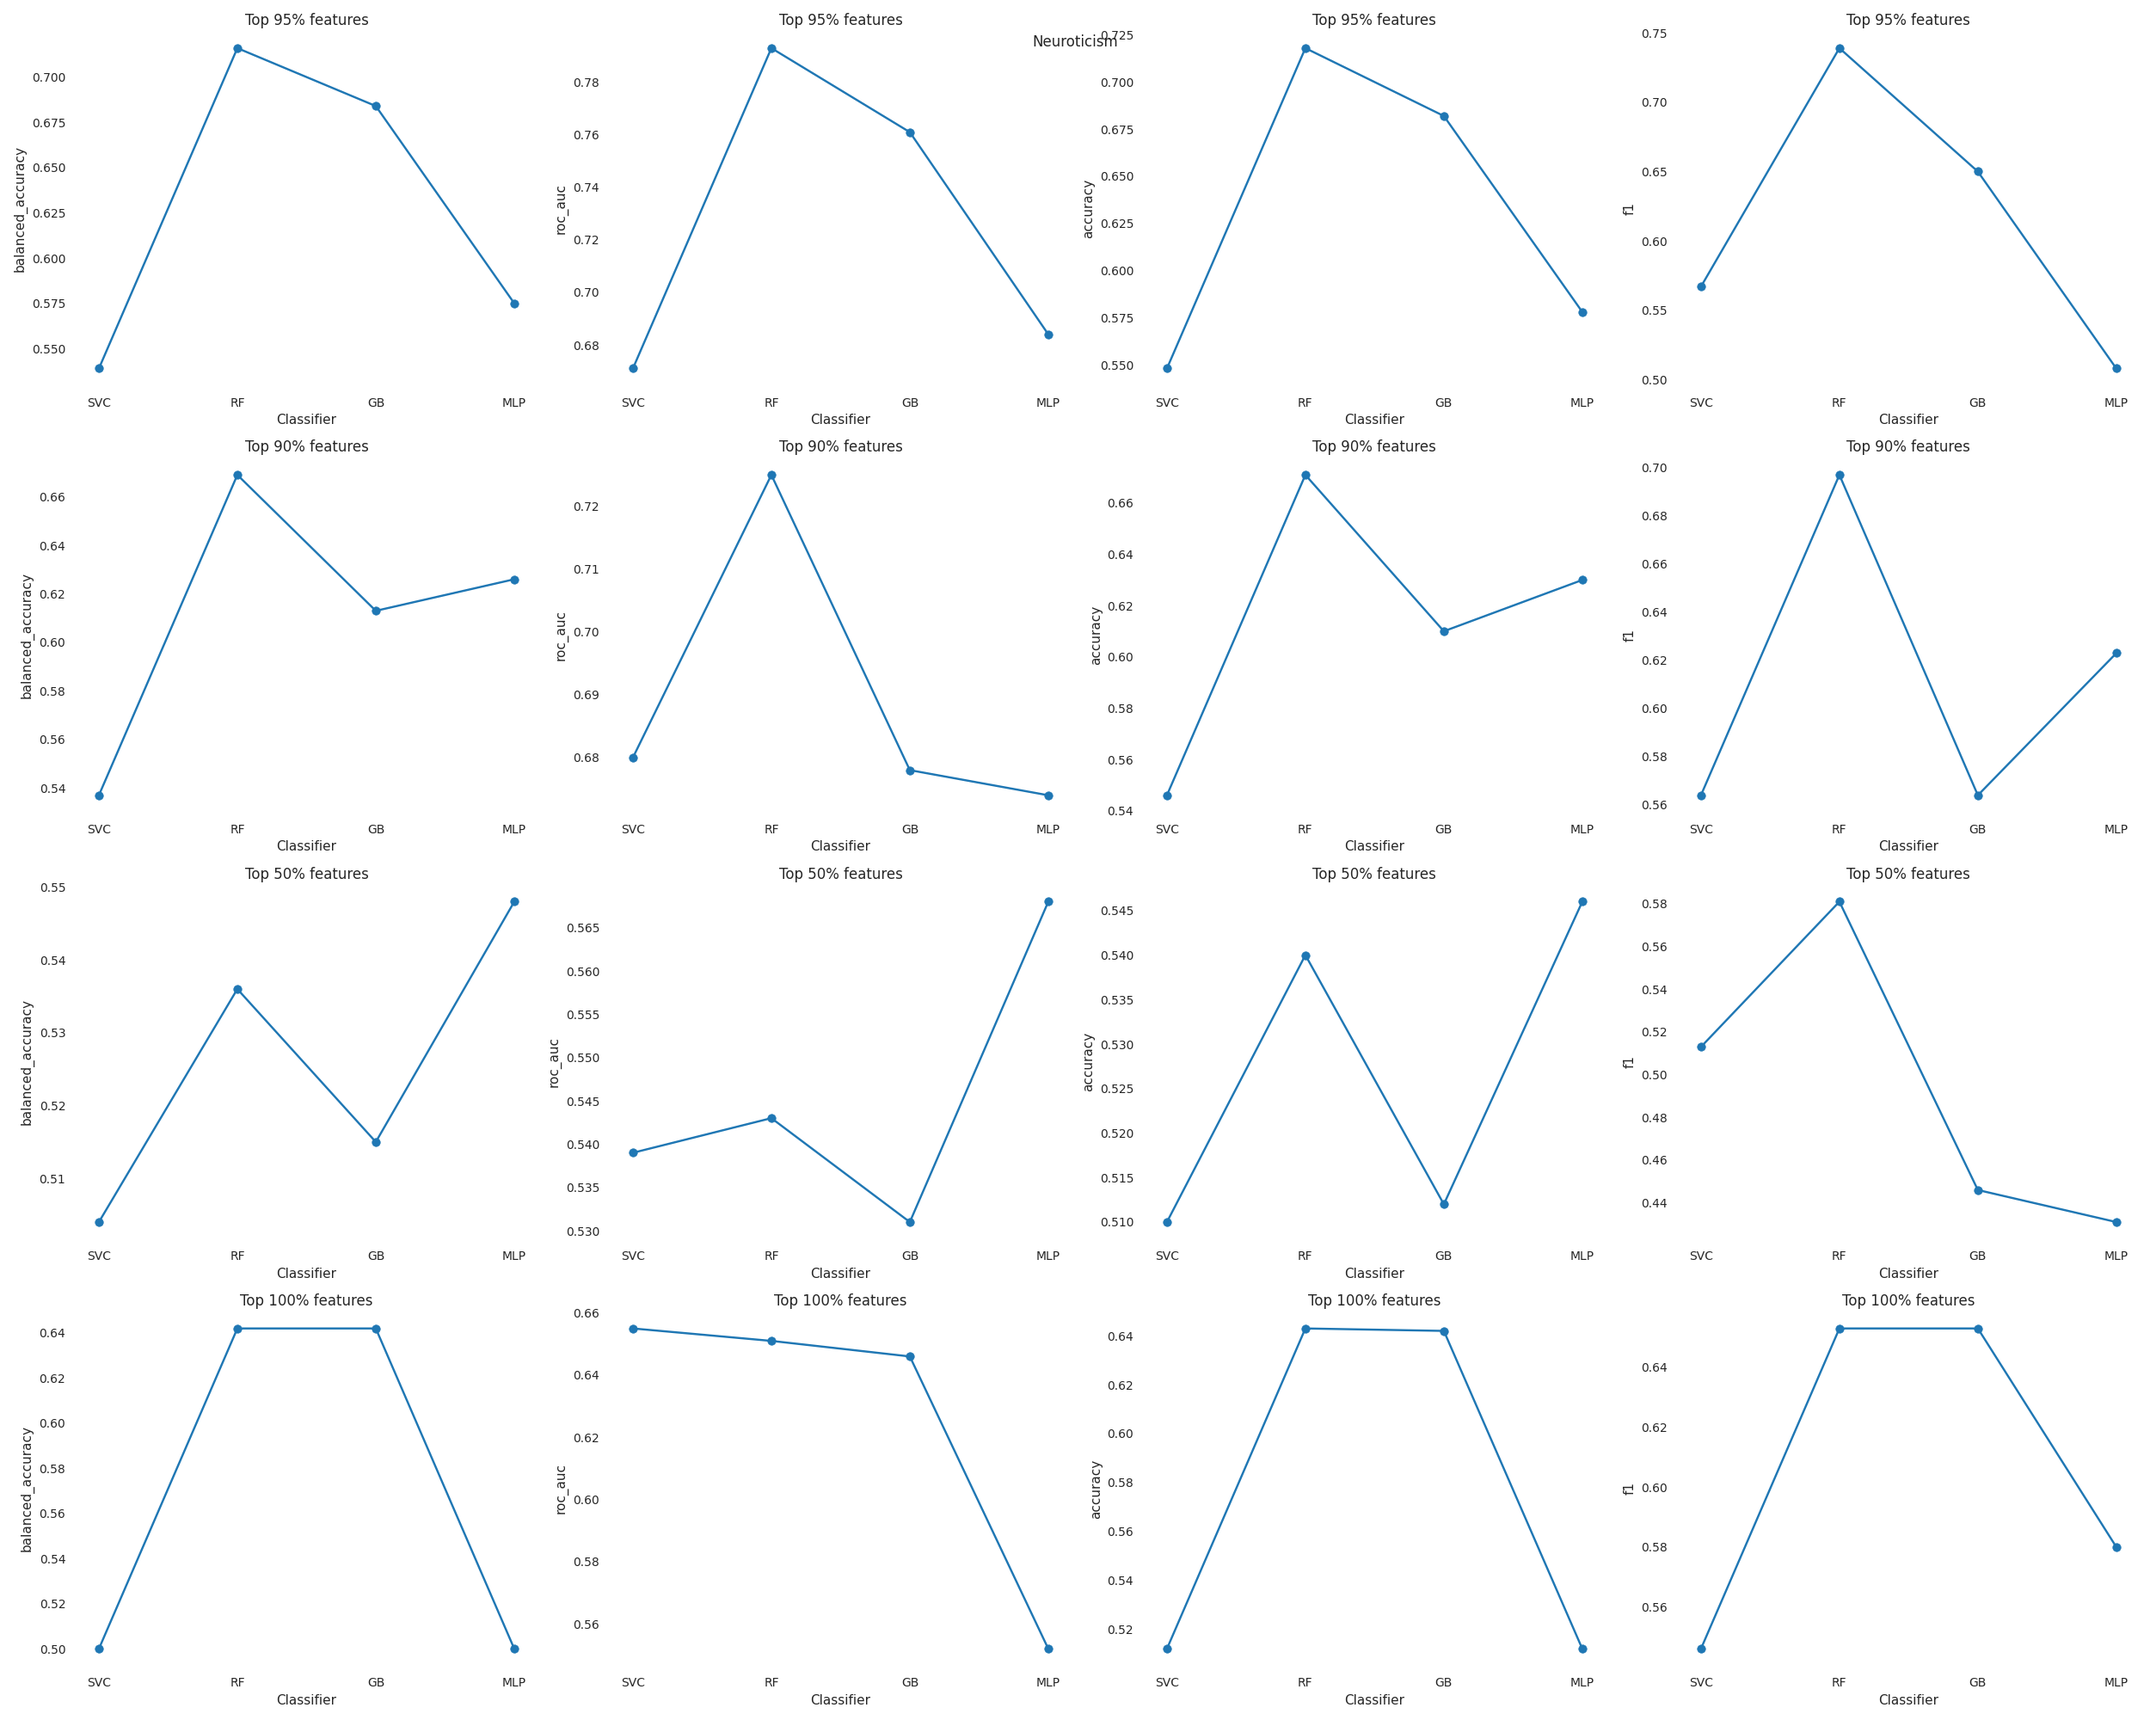
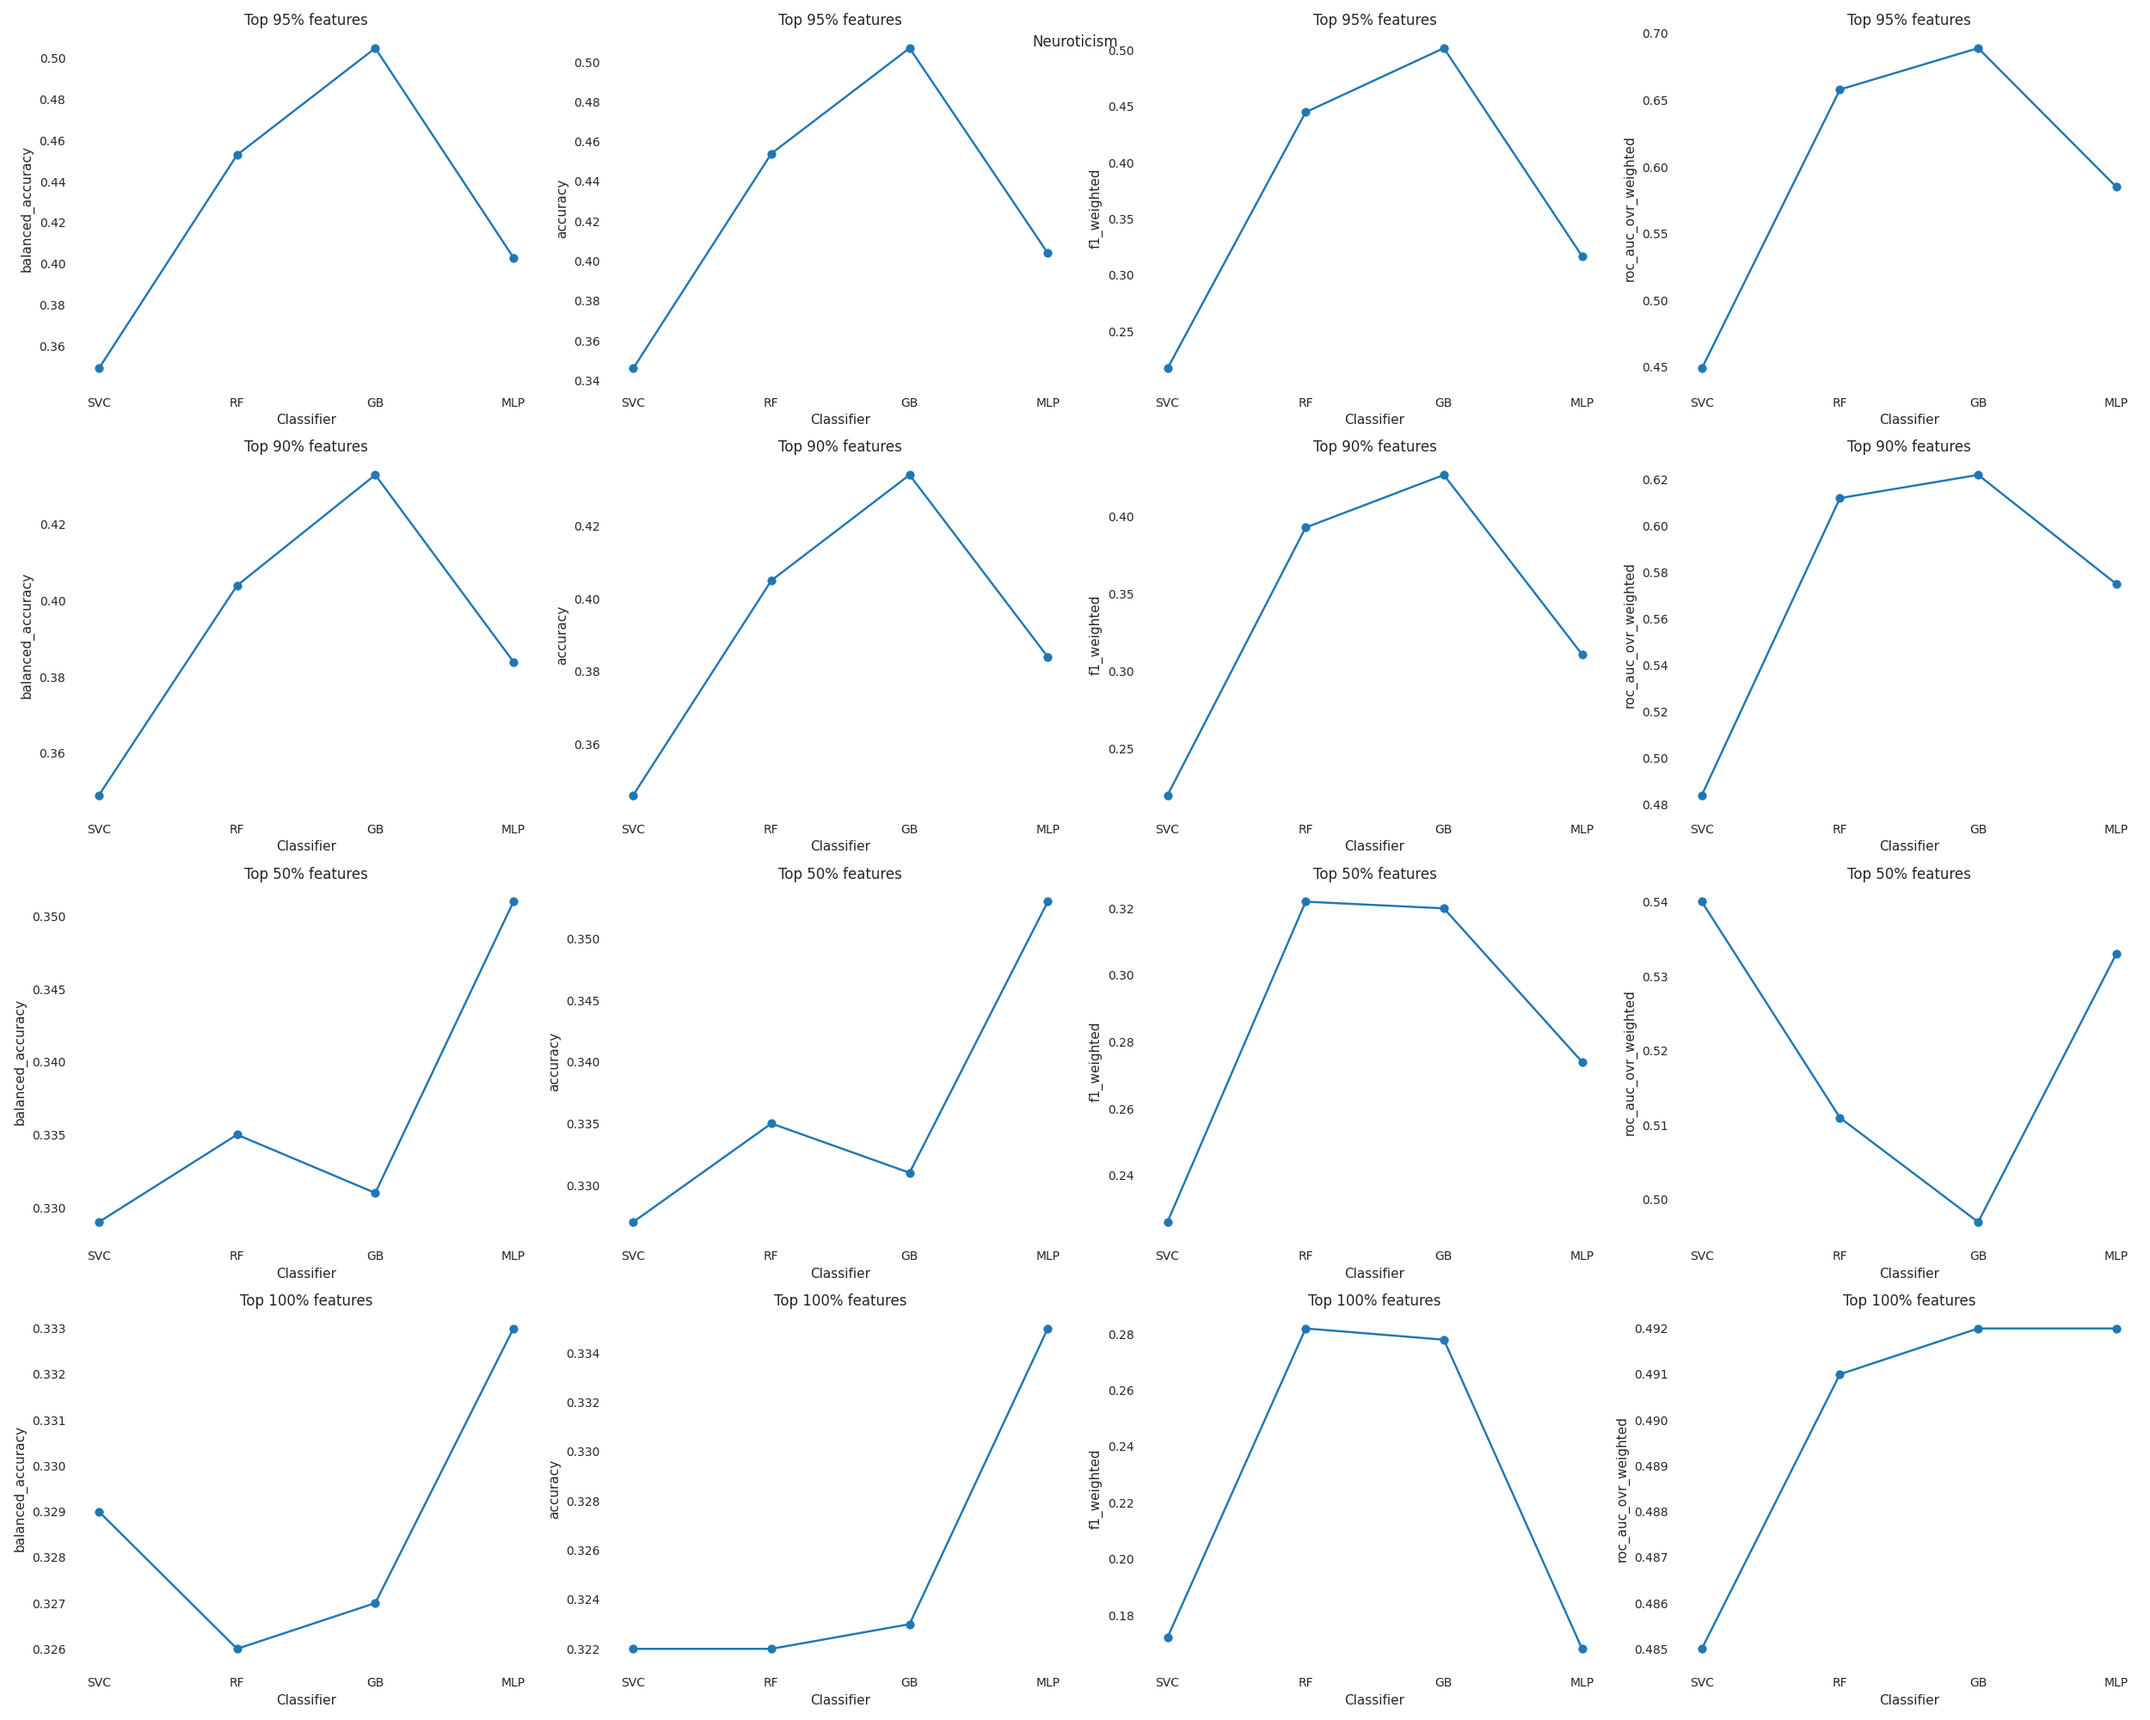
new results but need to change the visualisation

diff --git a/graphtools/classification.py b/graphtools/classification.py
@@ -10,7 +10,7 @@ from readfiles import computed_subjects
 import matplotlib.pyplot as plt
 import time
 import datetime
-
+import json
 
 # %%
 def dict_classifier(classifier, *args):
@@ -63,7 +63,7 @@ def dict_classifier(classifier, *args):
                     'tol': loguniform(1e-4, 1e-2),
                     'min_samples_leaf': [1, 2, 4],
                     'min_samples_split': [2, 5, 10],
-                    'n_estimators': [200, 400, 600, 800]
+                    'n_estimators': [200, 400] #takes too long to converge
                 }
                 # multiclass cannot use losss exponential
             elif classifier == 'MLP':
@@ -72,7 +72,7 @@ def dict_classifier(classifier, *args):
                                  'activation': ['tanh', 'relu'],
                                  'solver': ['sgd', 'adam'],
                                  'alpha': [0.001, 0.05],
-                                 'learning_rate': ['adaptive']}
+                                 'learning_rate': ['adaptive']} #doesn't converge even with maximum iterations!
 
             print(f'Executing {clf}')
             # roc doesn't support multiclass
@@ -118,7 +118,7 @@ def visualise_performance(combined, big5, metrics, top_per):
                 ax[k][j].scatter(combined.keys(), l)
                 ax[k][j].plot(list(combined.keys()), l)
                 # ax[k][j].set_xticks(list(combined.keys()))
-                ax[k][j].set_title(f'Top {100 - top_per[k]}% features')
+                ax[k][j].set_title(f'{top_per[k]}% features')
                 ax[k][j].set_xlabel('Classifier')
                 ax[k][j].set_ylabel(metrics[j])
         fig.suptitle(big5[i])
@@ -156,4 +156,6 @@ if __name__ == "__main__":
         print(f'Time taken for {clf}: {datetime.timedelta(seconds=end-start)}')
         make_csv(d1, f'outputs/{clf}_results_cv.csv')
         combined[clf] = d1['Metrics']
+    with open('comined_dict.txt', 'w') as f:
+        f.write(json.dumps(combined)) # write the combined dictionary to the file so that this can be read later on
     visualise_performance(combined, big5, metrics, [5, 10, 50, 0])
